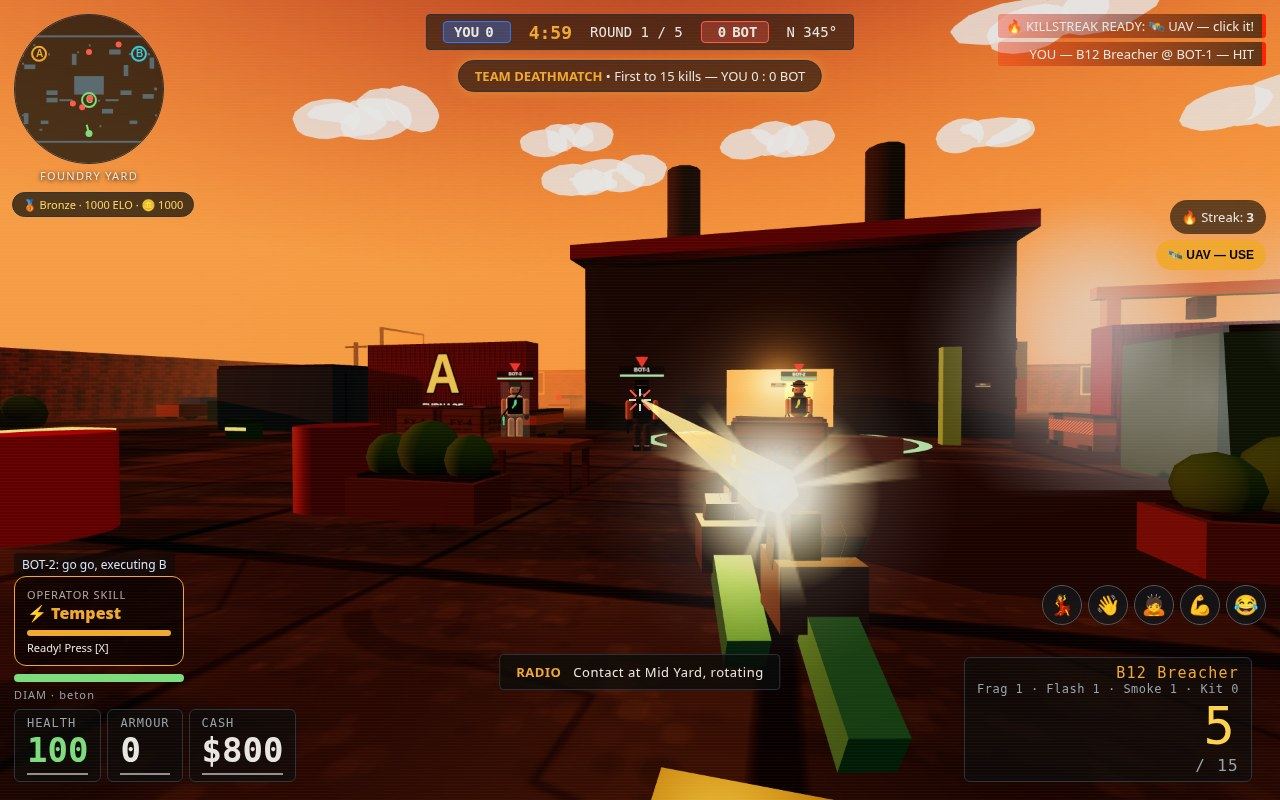
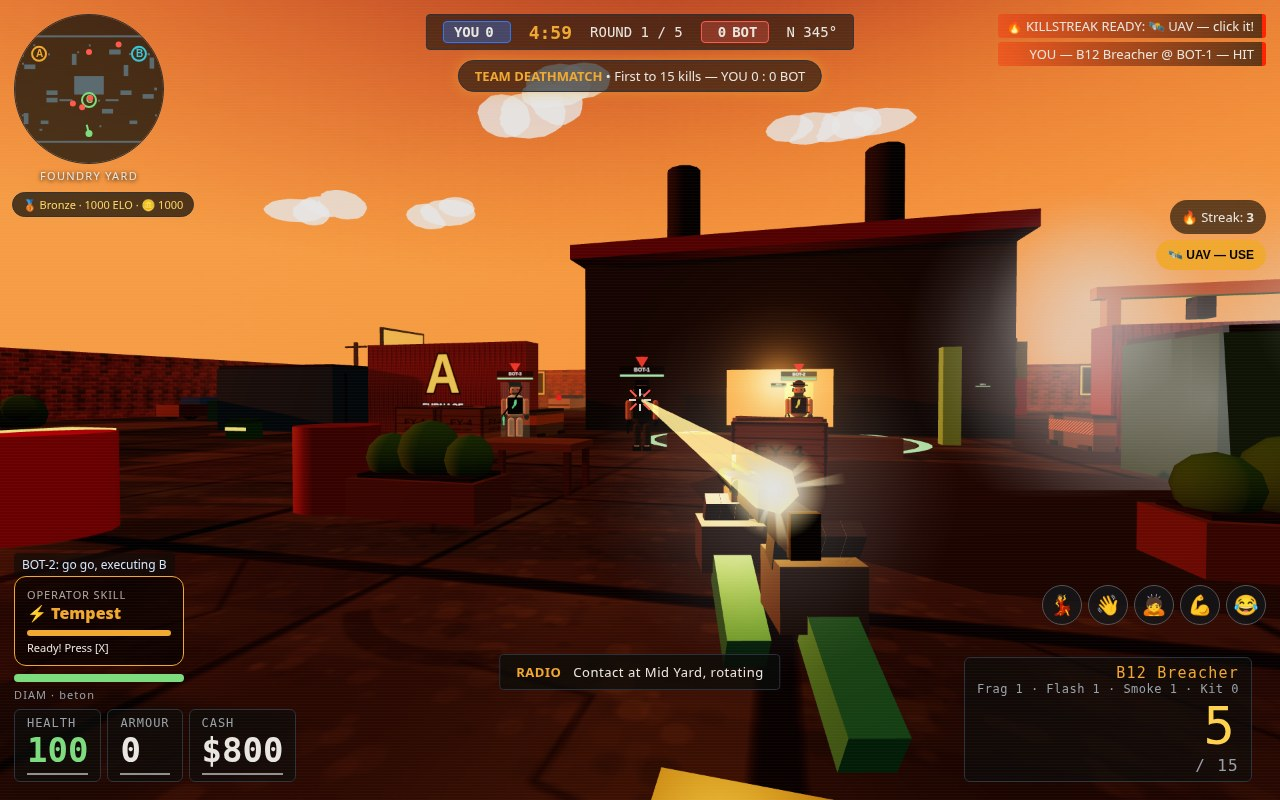
forge-fps flash-shrink + smooth polish pass: smaller muzzle flash (plane 0.5->0.4, scale jitter 1.1+0.6 -> 0.8+0.4), brighter storm/night light so the Ruin City viewmodel reads (storm sun 1.2->1.5, hemi 1.0->1.3; night 1.0->1.2 / 0.9->1.1; ruin sunInt 1.6->2.0), lighter brick texture (mortar + shade

diff --git a/game/src/weather.js b/game/src/weather.js
@@ -7,9 +7,9 @@ export const WEATHER_DEFS = {
   // Dusk (reference-style): warm orange sky, low sun, thin haze — the
   // dossier's default look. Kept readable: fog far 70m, sun 2.6.
   sunset: { name: 'Sore', icon: '🌇', sky: { top: '#33182e', mid: '#8a3a26', horizon: '#ff7a30', glow: 'rgba(255,110,50,0.95)', stars: false }, bg: 0xff8a35, fog: [18, 70], sun: { color: 0xff6a2a, int: 2.6, pos: [-50, 8, 10] }, hemi: { sky: 0xffa070, ground: 0x4a2a1a, int: 1.35 }, clouds: 10, rain: 0, snow: 0, dust: 0, stars: false, lights: false, lightning: null },
-  night: { name: 'Malam', icon: '🌙', sky: { top: '#020208', mid: '#0a0a20', horizon: '#1a1a3a', glow: 'rgba(200,200,255,0.25)', stars: true }, bg: 0x050510, fog: [20, 70], sun: { color: 0x9fb8ff, int: 1.0, pos: [30, 50, -20] }, hemi: { sky: 0x2a3a6a, ground: 0x0a0a14, int: 0.9 }, clouds: 4, rain: 0, snow: 0, dust: 0, stars: true, lights: true, lightning: null },
+  night: { name: 'Malam', icon: '🌙', sky: { top: '#020208', mid: '#0a0a20', horizon: '#1a1a3a', glow: 'rgba(200,200,255,0.25)', stars: true }, bg: 0x050510, fog: [20, 70], sun: { color: 0x9fb8ff, int: 1.2, pos: [30, 50, -20] }, hemi: { sky: 0x2a3a6a, ground: 0x0a0a14, int: 1.1 }, clouds: 4, rain: 0, snow: 0, dust: 0, stars: true, lights: true, lightning: null },
   rain: { name: 'Hujan', icon: '🌧', sky: { top: '#1a2530', mid: '#2a3a4a', horizon: '#4a5a6a', glow: 'rgba(150,170,190,0.3)', stars: false }, bg: 0x3a4a5a, fog: [20, 70], sun: { color: 0xaab8c8, int: 1.0, pos: [-20, 50, 10] }, hemi: { sky: 0x6a7a8a, ground: 0x2a2a2a, int: 0.9 }, clouds: 12, rain: 500, snow: 0, dust: 0, stars: false, lights: false, lightning: 'rare' },
-  storm: { name: 'Badai', icon: '⛈', sky: { top: '#0a0e14', mid: '#141a22', horizon: '#2a3038', glow: 'rgba(180,190,210,0.35)', stars: false }, bg: 0x1a2028, fog: [15, 55], sun: { color: 0x8a9ab0, int: 1.2, pos: [-20, 40, 10] }, hemi: { sky: 0x3a4a5a, ground: 0x141414, int: 1.0 }, clouds: 14, rain: 500, snow: 0, dust: 0, stars: false, lights: false, lightning: 'storm' },
+  storm: { name: 'Badai', icon: '⛈', sky: { top: '#0a0e14', mid: '#141a22', horizon: '#2a3038', glow: 'rgba(180,190,210,0.35)', stars: false }, bg: 0x1a2028, fog: [15, 55], sun: { color: 0x8a9ab0, int: 1.5, pos: [-20, 40, 10] }, hemi: { sky: 0x3a4a5a, ground: 0x141414, int: 1.3 }, clouds: 14, rain: 500, snow: 0, dust: 0, stars: false, lights: false, lightning: 'storm' },
   sand: { name: 'Badai Pasir', icon: '🏜', sky: { top: '#8a6a2a', mid: '#c8a050', horizon: '#e8c878', glow: 'rgba(255,220,140,0.5)', stars: false }, bg: 0xd8b25a, fog: [6, 30], sun: { color: 0xffd880, int: 1.6, pos: [-30, 40, 20] }, hemi: { sky: 0xe8c878, ground: 0x8a6a3a, int: 1.1 }, clouds: 6, rain: 0, snow: 0, dust: 200, stars: false, lights: false, lightning: null },
   snow: { name: 'Salju', icon: '❄', sky: { top: '#5a6a7a', mid: '#8a9ab0', horizon: '#c8d8e8', glow: 'rgba(255,255,255,0.5)', stars: false }, bg: 0xb8c8d8, fog: [20, 75], sun: { color: 0xe8f0ff, int: 1.4, pos: [-20, 50, 10] }, hemi: { sky: 0xc8d8e8, ground: 0x6a7a8a, int: 1.2 }, clouds: 10, rain: 0, snow: 300, dust: 0, stars: false, lights: false, lightning: null },
   fog: { name: 'Kabut Tebal', icon: '🌫', sky: { top: '#6a7a7a', mid: '#8a9a8a', horizon: '#a8b8b0', glow: 'rgba(200,210,200,0.3)', stars: false }, bg: 0x9aa8a8, fog: [4, 25], sun: { color: 0xc8d0c8, int: 0.8, pos: [-20, 40, 10] }, hemi: { sky: 0x9aa8a8, ground: 0x5a6a5a, int: 0.9 }, clouds: 3, rain: 0, snow: 0, dust: 0, stars: false, lights: false, lightning: null },
@@ -31,7 +31,7 @@ export const MAP_WEATHER_FULL = {
   iron: { weather: 'sunset', fog: [18, 60], sunInt: 1.2, wind: 1, ambient: 'city', bolt: null, puddles: false, fogBalls: false, sky: { top: '#3a3a42', mid: '#5a5a62', horizon: '#8a8a92', glow: 'rgba(180,180,190,0.3)', stars: false } },
   cargo: { weather: 'rain', fog: [25, 80], sunInt: 1.0, wind: 1, ambient: 'rain-light', bolt: null, puddles: true, fogBalls: false },
   harvest: { weather: 'fog', fog: [4, 25], sunInt: 0.8, wind: 0.5, ambient: 'birds', bolt: null, puddles: false, fogBalls: true },
-  ruin: { weather: 'storm', fog: [15, 55], sunInt: 1.6, wind: 2, ambient: 'rain-heavy', bolt: [2, 4], puddles: true, fogBalls: false },
+  ruin: { weather: 'storm', fog: [15, 55], sunInt: 2.0, wind: 2, ambient: 'rain-heavy', bolt: [2, 4], puddles: true, fogBalls: false },
   foundry: { weather: 'clear', fog: [30, 95], sunInt: 2.8, wind: 1, ambient: 'city', bolt: null, puddles: false, fogBalls: false },
 };
 // Ambient sound per weather type (used when no per-map ambient is set).
@@ -165,7 +165,7 @@ export function createWeather(scene, S, world, audio) {
 
   let boltT = 8; // seconds to the next lightning bolt
   let flash = 0;
-  let baseSunInt = 2.4;
+  let baseSunInt = 2.4, sunTarget = 2.4, hemiTarget = 1.5, fogNT = 18, fogFT = 70;
   let boltRange = null; // [min, max] seconds between bolts (ruin map: faster)
 
   // Sun path (v18.6.1): one sun, driven by the day-night cycle when it is
@@ -185,20 +185,20 @@ export function createWeather(scene, S, world, audio) {
     scene.fog.color.setHex(def.bg);
     // Graphics quality (v18.6.10): Low pulls the fog in close, Ultra pushes it out.
     const fogF = S.fogFactor || 1;
-    scene.fog.near = ((over && over.fog) ? over.fog[0] : def.fog[0]) * fogF;
-    scene.fog.far = ((over && over.fog) ? over.fog[1] : def.fog[1]) * fogF;
+    fogNT = ((over && over.fog) ? over.fog[0] : def.fog[0]) * fogF;
+    fogFT = ((over && over.fog) ? over.fog[1] : def.fog[1]) * fogF;
     world.setSky((over && over.sky) ? over.sky : def.sky);
     world.sun.color.setHex(def.sun.color);
     // Brightness slider (v18.3.2) × Ultra sun boost (v18.6.10).
     const bright = (S.settings && S.settings.graphics && S.settings.graphics.brightness) || 1;
     const qSun = S.qualitySun || 1;
-    world.sun.intensity = ((over && over.sunInt != null) ? over.sunInt : def.sun.int) * bright * qSun;
+    sunTarget = ((over && over.sunInt != null) ? over.sunInt : def.sun.int) * bright * qSun;
     world.sun.position.set(...def.sun.pos);
-    baseSunInt = world.sun.intensity;
+    baseSunInt = sunTarget;
     sunBase = { x: def.sun.pos[0] * 1.6, y: Math.max(12, def.sun.pos[1]), z: def.sun.pos[2] * 1.6 };
     world.hemi.color.setHex(def.hemi.sky);
     world.hemi.groundColor.setHex(def.hemi.ground);
-    world.hemi.intensity = def.hemi.int;
+    hemiTarget = def.hemi.int;
     sunMesh.visible = id !== 'night'; sunHalo.visible = id !== 'night';
     sunMesh.material.color.setHex(id === 'sunset' ? 0xff5a2a : id === 'dawn' ? 0xffb080 : 0xffdf80);
     sunHalo.material.color.setHex(id === 'sunset' ? 0xff5a2a : id === 'dawn' ? 0xffb080 : 0xffdf80);
@@ -334,11 +334,17 @@ export function createWeather(scene, S, world, audio) {
     }
     if (flash > 0) {
       flash = Math.max(0, flash - dt * 2.5);
-      world.sun.intensity += (baseSunInt - world.sun.intensity) * Math.min(1, dt * 4);
       if (flashEl) flashEl.style.opacity = String(flash * 0.55);
     } else if (flashEl && flashEl.style.opacity !== '0') {
       flashEl.style.opacity = '0';
     }
+    // Smooth light/fog transitions: ease toward the weather targets
+    // instead of snapping (cycle phase changes, manual switches).
+    const k = Math.min(1, dt * 1.5);
+    world.sun.intensity += (sunTarget - world.sun.intensity) * k;
+    world.hemi.intensity += (hemiTarget - world.hemi.intensity) * k;
+    scene.fog.near += (fogNT - scene.fog.near) * k;
+    scene.fog.far += (fogFT - scene.fog.far) * k;
   }
   // Day-night cycle: 10 minutes — Day 3m -> Sunset 2m -> Night 3m -> Dawn 2m.
   // The cycle only drives clear/sunset/night/dawn; a manually picked

diff --git a/game/src/audio.js b/game/src/audio.js
@@ -7,14 +7,21 @@ export function createAudio() {
   let rotorNodes = null; // attack-heli rotor oscillators (one pair, started/stopped)
   let vehicleNodes = null; // vehicle engine hum (one pair, started/stopped)
   let lobbyNodes = null; // lobby pad (one pair, started/stopped)
-  let ambientSrc = null, ambientKind = null, ambientBirdTimer = null;
+  let ambientSrc = null, ambientKind = null, ambientBirdTimer = null, ambientGain = null;
   let gunVol = 1, voiceVol = 1, calloutsOn = true; // v17.3 separate volumes
   let muted = false; // v18.3: mute-all silences every sound
   let hapticOn = true; // v28.0.1: vibration master switch
   let mobile = false; // v18.4: phone speakers get a bass boost in shot()
   function stopAmbient() {
     if (ambientBirdTimer) { clearInterval(ambientBirdTimer); ambientBirdTimer = null; }
-    if (ambientSrc) { try { ambientSrc.stop(); } catch { /* ignore */ } ambientSrc = null; }
+    const s = ambientSrc, g = ambientGain; ambientSrc = null; ambientGain = null;
+    if (s) {
+      try {
+        const c = ac();
+        if (c && g) { g.gain.cancelScheduledValues(c.currentTime); g.gain.setValueAtTime(g.gain.value, c.currentTime); g.gain.linearRampToValueAtTime(0.0001, c.currentTime + 0.4); }
+        setTimeout(() => { try { s.stop(); } catch { /* ignore */ } }, 450);
+      } catch { try { s.stop(); } catch { /* ignore */ } }
+    }
     ambientKind = null;
   }
   function stopCinematic() {
@@ -35,7 +42,8 @@ export function createAudio() {
       const o = c.createOscillator(), g = c.createGain();
       o.type = type; o.frequency.setValueAtTime(freq, c.currentTime);
       if (slide) o.frequency.exponentialRampToValueAtTime(Math.max(20, freq + slide), c.currentTime + dur);
-      g.gain.setValueAtTime(vol * gunVol, c.currentTime);
+      g.gain.setValueAtTime(0.0001, c.currentTime);
+      g.gain.linearRampToValueAtTime(vol * gunVol, c.currentTime + 0.008);
       g.gain.exponentialRampToValueAtTime(0.0001, c.currentTime + dur);
       o.connect(g).connect(c.destination);
       o.start(); o.stop(c.currentTime + dur);
@@ -51,7 +59,7 @@ export function createAudio() {
       for (let i = 0; i < len; i++) d[i] = (Math.random() * 2 - 1) * (1 - i / len);
       const src = c.createBufferSource(); src.buffer = buf;
       const f = c.createBiquadFilter(); f.type = 'lowpass'; f.frequency.value = low;
-      const g = c.createGain(); g.gain.value = vol * gunVol;
+      const g = c.createGain(); g.gain.setValueAtTime(0.0001, c.currentTime); g.gain.linearRampToValueAtTime(vol * gunVol, c.currentTime + 0.02);
       src.connect(f).connect(g).connect(c.destination); src.start();
     } catch { /* ignore */ }
   }
@@ -160,9 +168,9 @@ export function createAudio() {
         for (let i = 0; i < len; i++) data[i] = Math.random() * 2 - 1;
         const src = c.createBufferSource(); src.buffer = buf; src.loop = true;
         const f = c.createBiquadFilter(); f.type = d.type; f.frequency.value = d.freq;
-        const g = c.createGain(); g.gain.value = d.vol;
+        const g = c.createGain(); g.gain.setValueAtTime(0.0001, c.currentTime); g.gain.linearRampToValueAtTime(d.vol, c.currentTime + 1.5);
         src.connect(f).connect(g).connect(c.destination); src.start();
-        ambientSrc = src; ambientKind = kind;
+        ambientSrc = src; ambientGain = g; ambientKind = kind;
         if (kind === 'birds') {
           ambientBirdTimer = setInterval(() => {
             const f0 = 2200 + Math.random() * 1200;

diff --git a/game/src/props.js b/game/src/props.js
@@ -289,8 +289,8 @@ export function createProps(scene, colliders, shootables, doors, levels, stairs)
   function brickTexture() {
     if (_brickTex) return _brickTex;
     _brickTex = ptex(256, (g, s) => {
-      g.fillStyle = '#a89a86'; g.fillRect(0, 0, s, s); // mortar
-      const shades = ['#8a3b28', '#96422e', '#7c3323', '#a34a33', '#8f4030', '#74301f', '#5f2a1c'];
+      g.fillStyle = '#b8aa96'; g.fillRect(0, 0, s, s); // mortar
+      const shades = ['#9c4a34', '#a8533c', '#8e4230', '#b25a40', '#a0503e', '#86402c', '#713a28'];
       const bw = 64, bh = 16;
       for (let row = 0; row < 16; row++) {
         const off = (row % 2) * (bw / 2);
@@ -299,9 +299,9 @@ export function createProps(scene, colliders, shootables, doors, levels, stairs)
           g.fillStyle = shades[Math.floor(h * shades.length)];
           g.fillRect(cx * bw + off + 1, row * bh + 1, bw - 2, bh - 2);
           // per-brick tone: lighter top edge, darker bottom edge
-          g.fillStyle = h < 0.5 ? 'rgba(255,220,190,0.10)' : 'rgba(0,0,0,0.12)';
+          g.fillStyle = h < 0.5 ? 'rgba(255,220,190,0.16)' : 'rgba(0,0,0,0.12)';
           g.fillRect(cx * bw + off + 1, row * bh + 1, bw - 2, 5);
-          g.fillStyle = 'rgba(0,0,0,0.18)';
+          g.fillStyle = 'rgba(0,0,0,0.12)';
           g.fillRect(cx * bw + off + 1, row * bh + bh - 5, bw - 2, 4);
         }
       }
@@ -309,7 +309,7 @@ export function createProps(scene, colliders, shootables, doors, levels, stairs)
       for (let i = 0; i < 7; i++) {
         const x = (i * 97 + 31) % 256, y = (i * 57 + 113) % 256, r = 20 + (i * 37) % 40;
         const gr = g.createRadialGradient(x, y, 0, x, y, r);
-        gr.addColorStop(0, 'rgba(30,20,12,0.28)'); gr.addColorStop(1, 'rgba(0,0,0,0)');
+        gr.addColorStop(0, 'rgba(30,20,12,0.20)'); gr.addColorStop(1, 'rgba(0,0,0,0)');
         g.fillStyle = gr; g.beginPath(); g.arc(x, y, r, 0, 7); g.fill();
       }
     }, 32, 1);

diff --git a/game/src/effects.js b/game/src/effects.js
@@ -112,7 +112,7 @@ export function createEffects(scene, S, audio) {
     const tex = new THREE.CanvasTexture(c);
     return tex;
   }
-  const flash = new THREE.Mesh(new THREE.PlaneGeometry(0.5, 0.5),
+  const flash = new THREE.Mesh(new THREE.PlaneGeometry(0.4, 0.4),
     new THREE.MeshBasicMaterial({ map: makeFlashTexture(), color: 0xffffff, transparent: true, opacity: 0, depthWrite: false }));
   flash.visible = false; scene.add(flash);
   const flashLight = new THREE.PointLight(0xffaa33, 0, 6);
@@ -202,7 +202,7 @@ export function createEffects(scene, S, audio) {
     flash.lookAt(camPos);
     flash.visible = true; flashT = 0.08;
     flash.material.opacity = 1;
-    flash.scale.setScalar((1.1 + Math.random() * 0.6) * scale);
+    flash.scale.setScalar((0.8 + Math.random() * 0.4) * scale);
     flashLight.position.copy(tip).addScaledVector(dir, 0.4);
     flashLight.intensity = 3 * scale;
     // Muzzle smoke lingers ~2s (v18.2.3): grows and fades slowly.

diff --git a/game/src/main.js b/game/src/main.js
@@ -97,7 +97,7 @@ const renderer = new THREE.WebGLRenderer({ antialias: true, powerPreference: 'hi
 renderer.setPixelRatio(Math.min(window.devicePixelRatio, 2));
 renderer.setSize(window.innerWidth, window.innerHeight);
 renderer.shadowMap.enabled = true;
-renderer.shadowMap.type = THREE.PCFShadowMap;
+renderer.shadowMap.type = THREE.PCFSoftShadowMap;
 renderer.toneMapping = THREE.ACESFilmicToneMapping;
 renderer.toneMappingExposure = 1.15;
 document.getElementById('game').appendChild(renderer.domElement);
